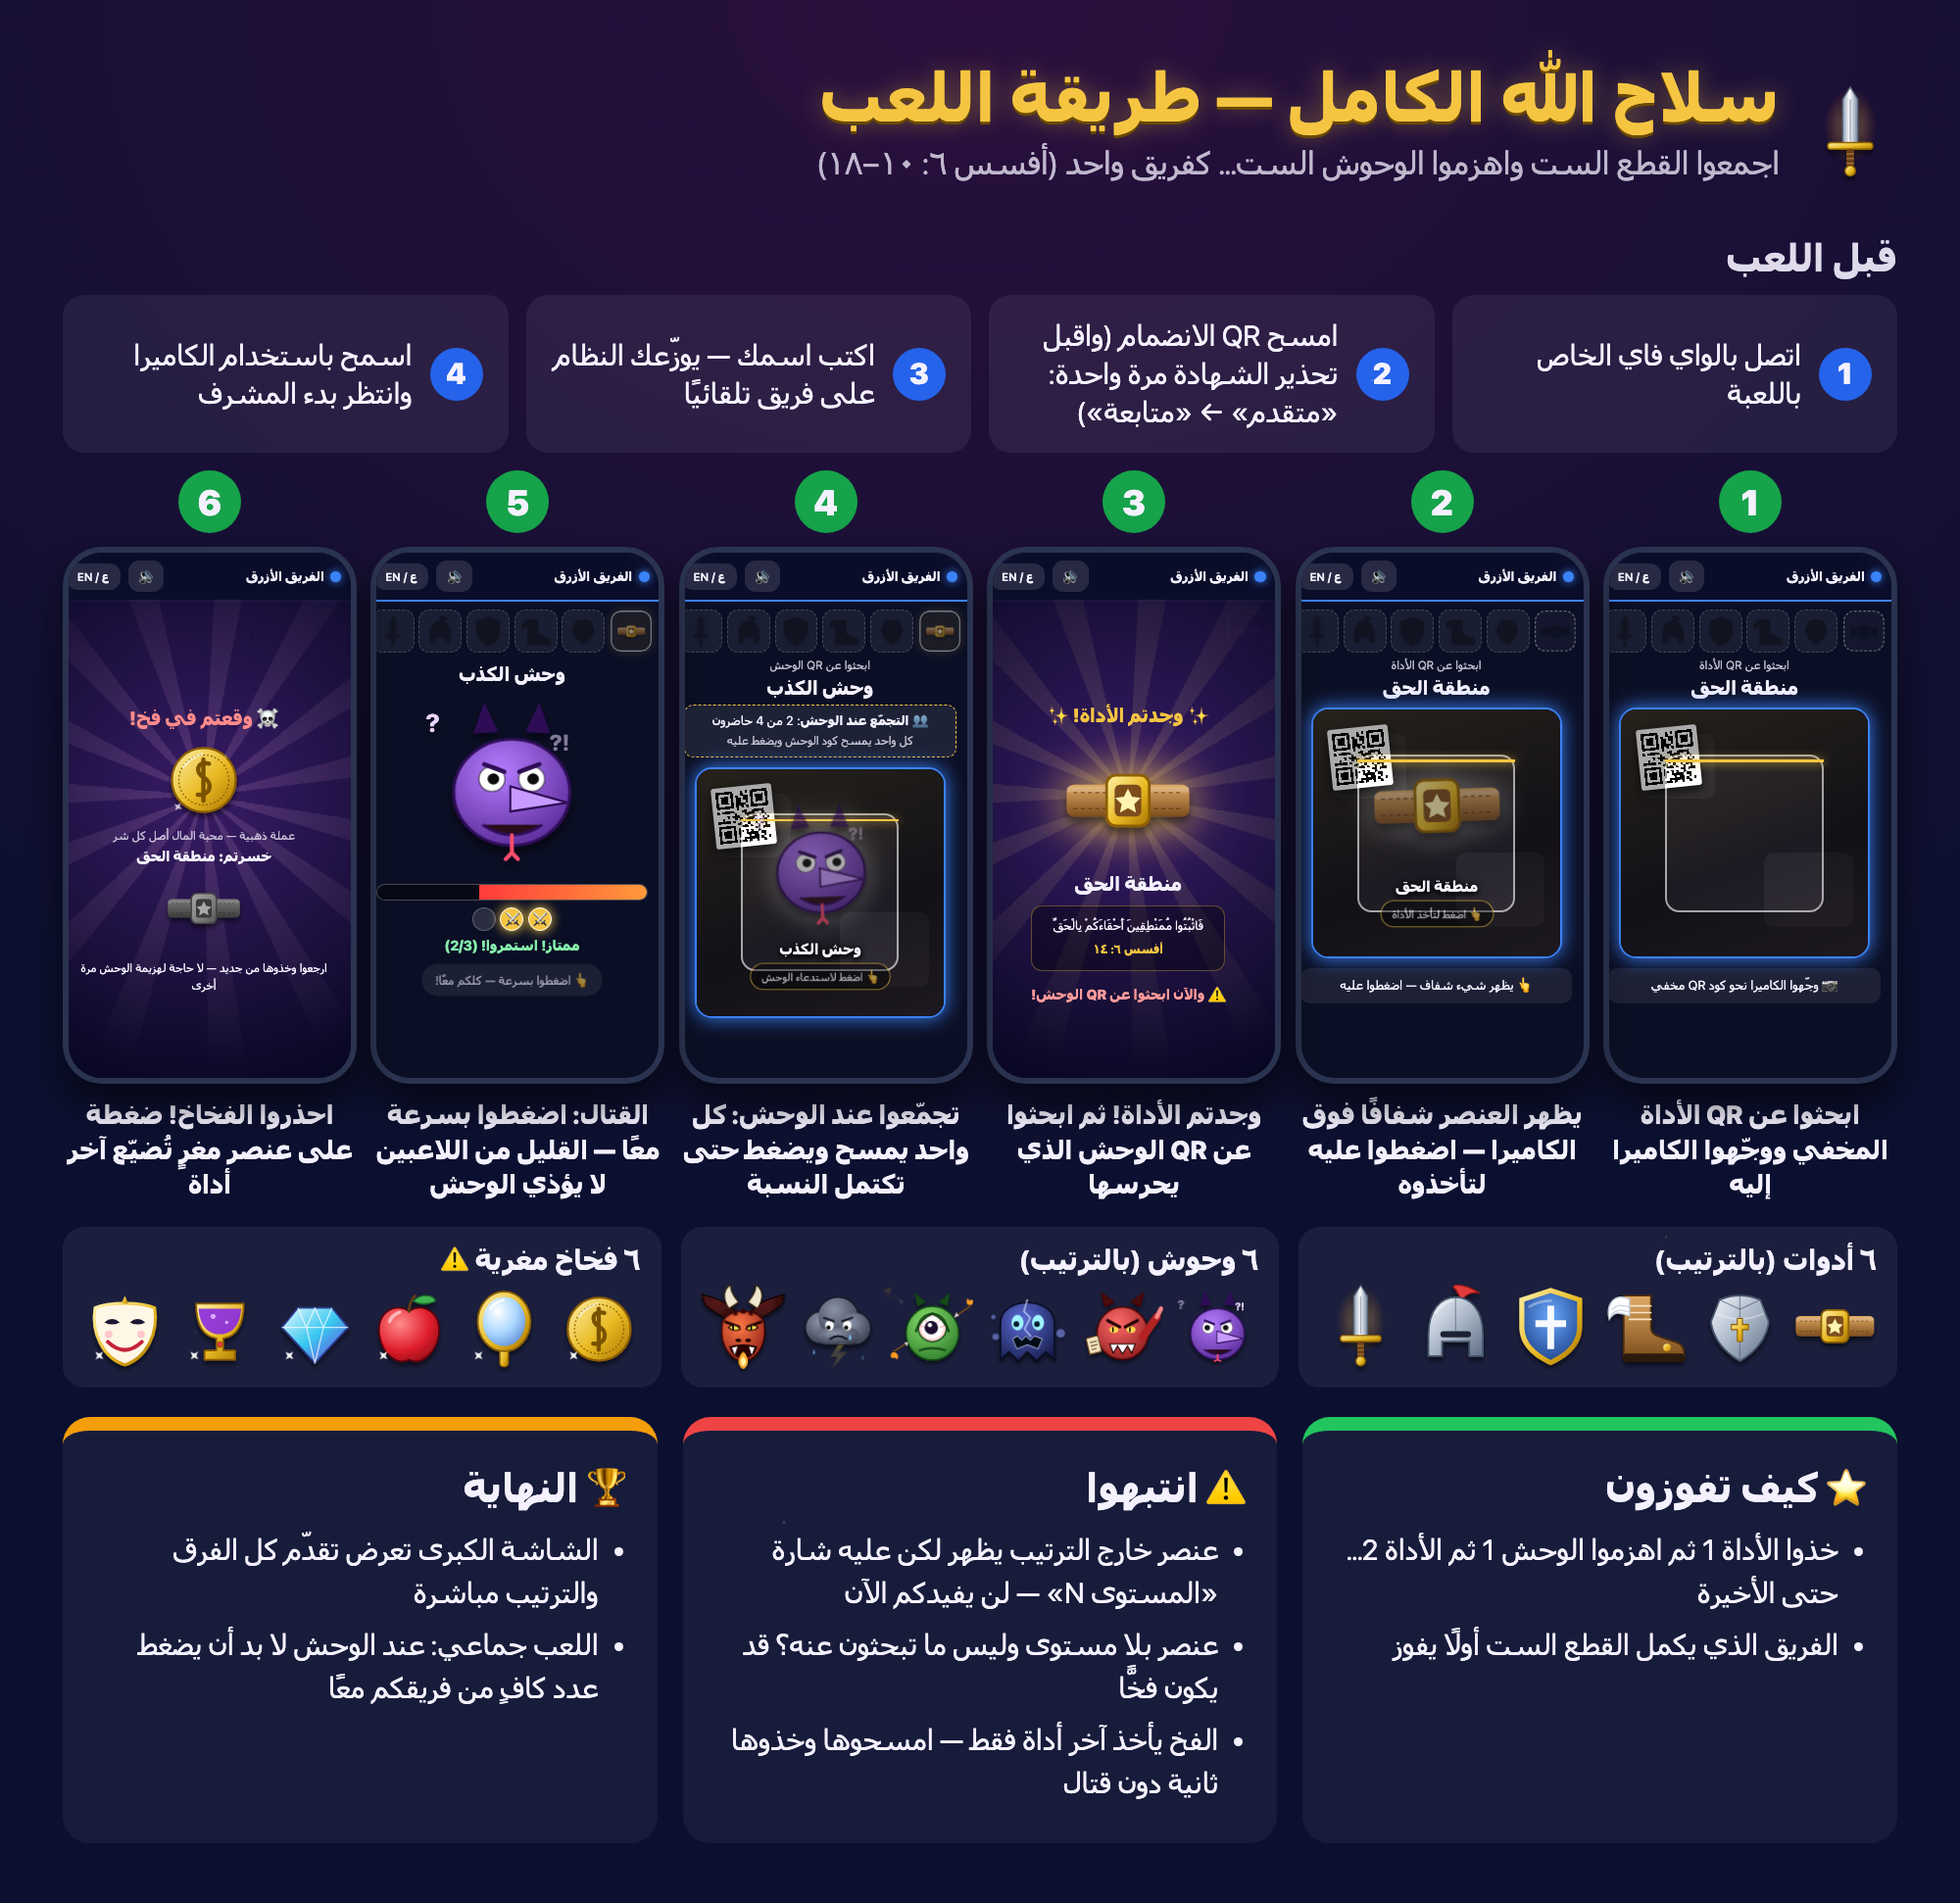
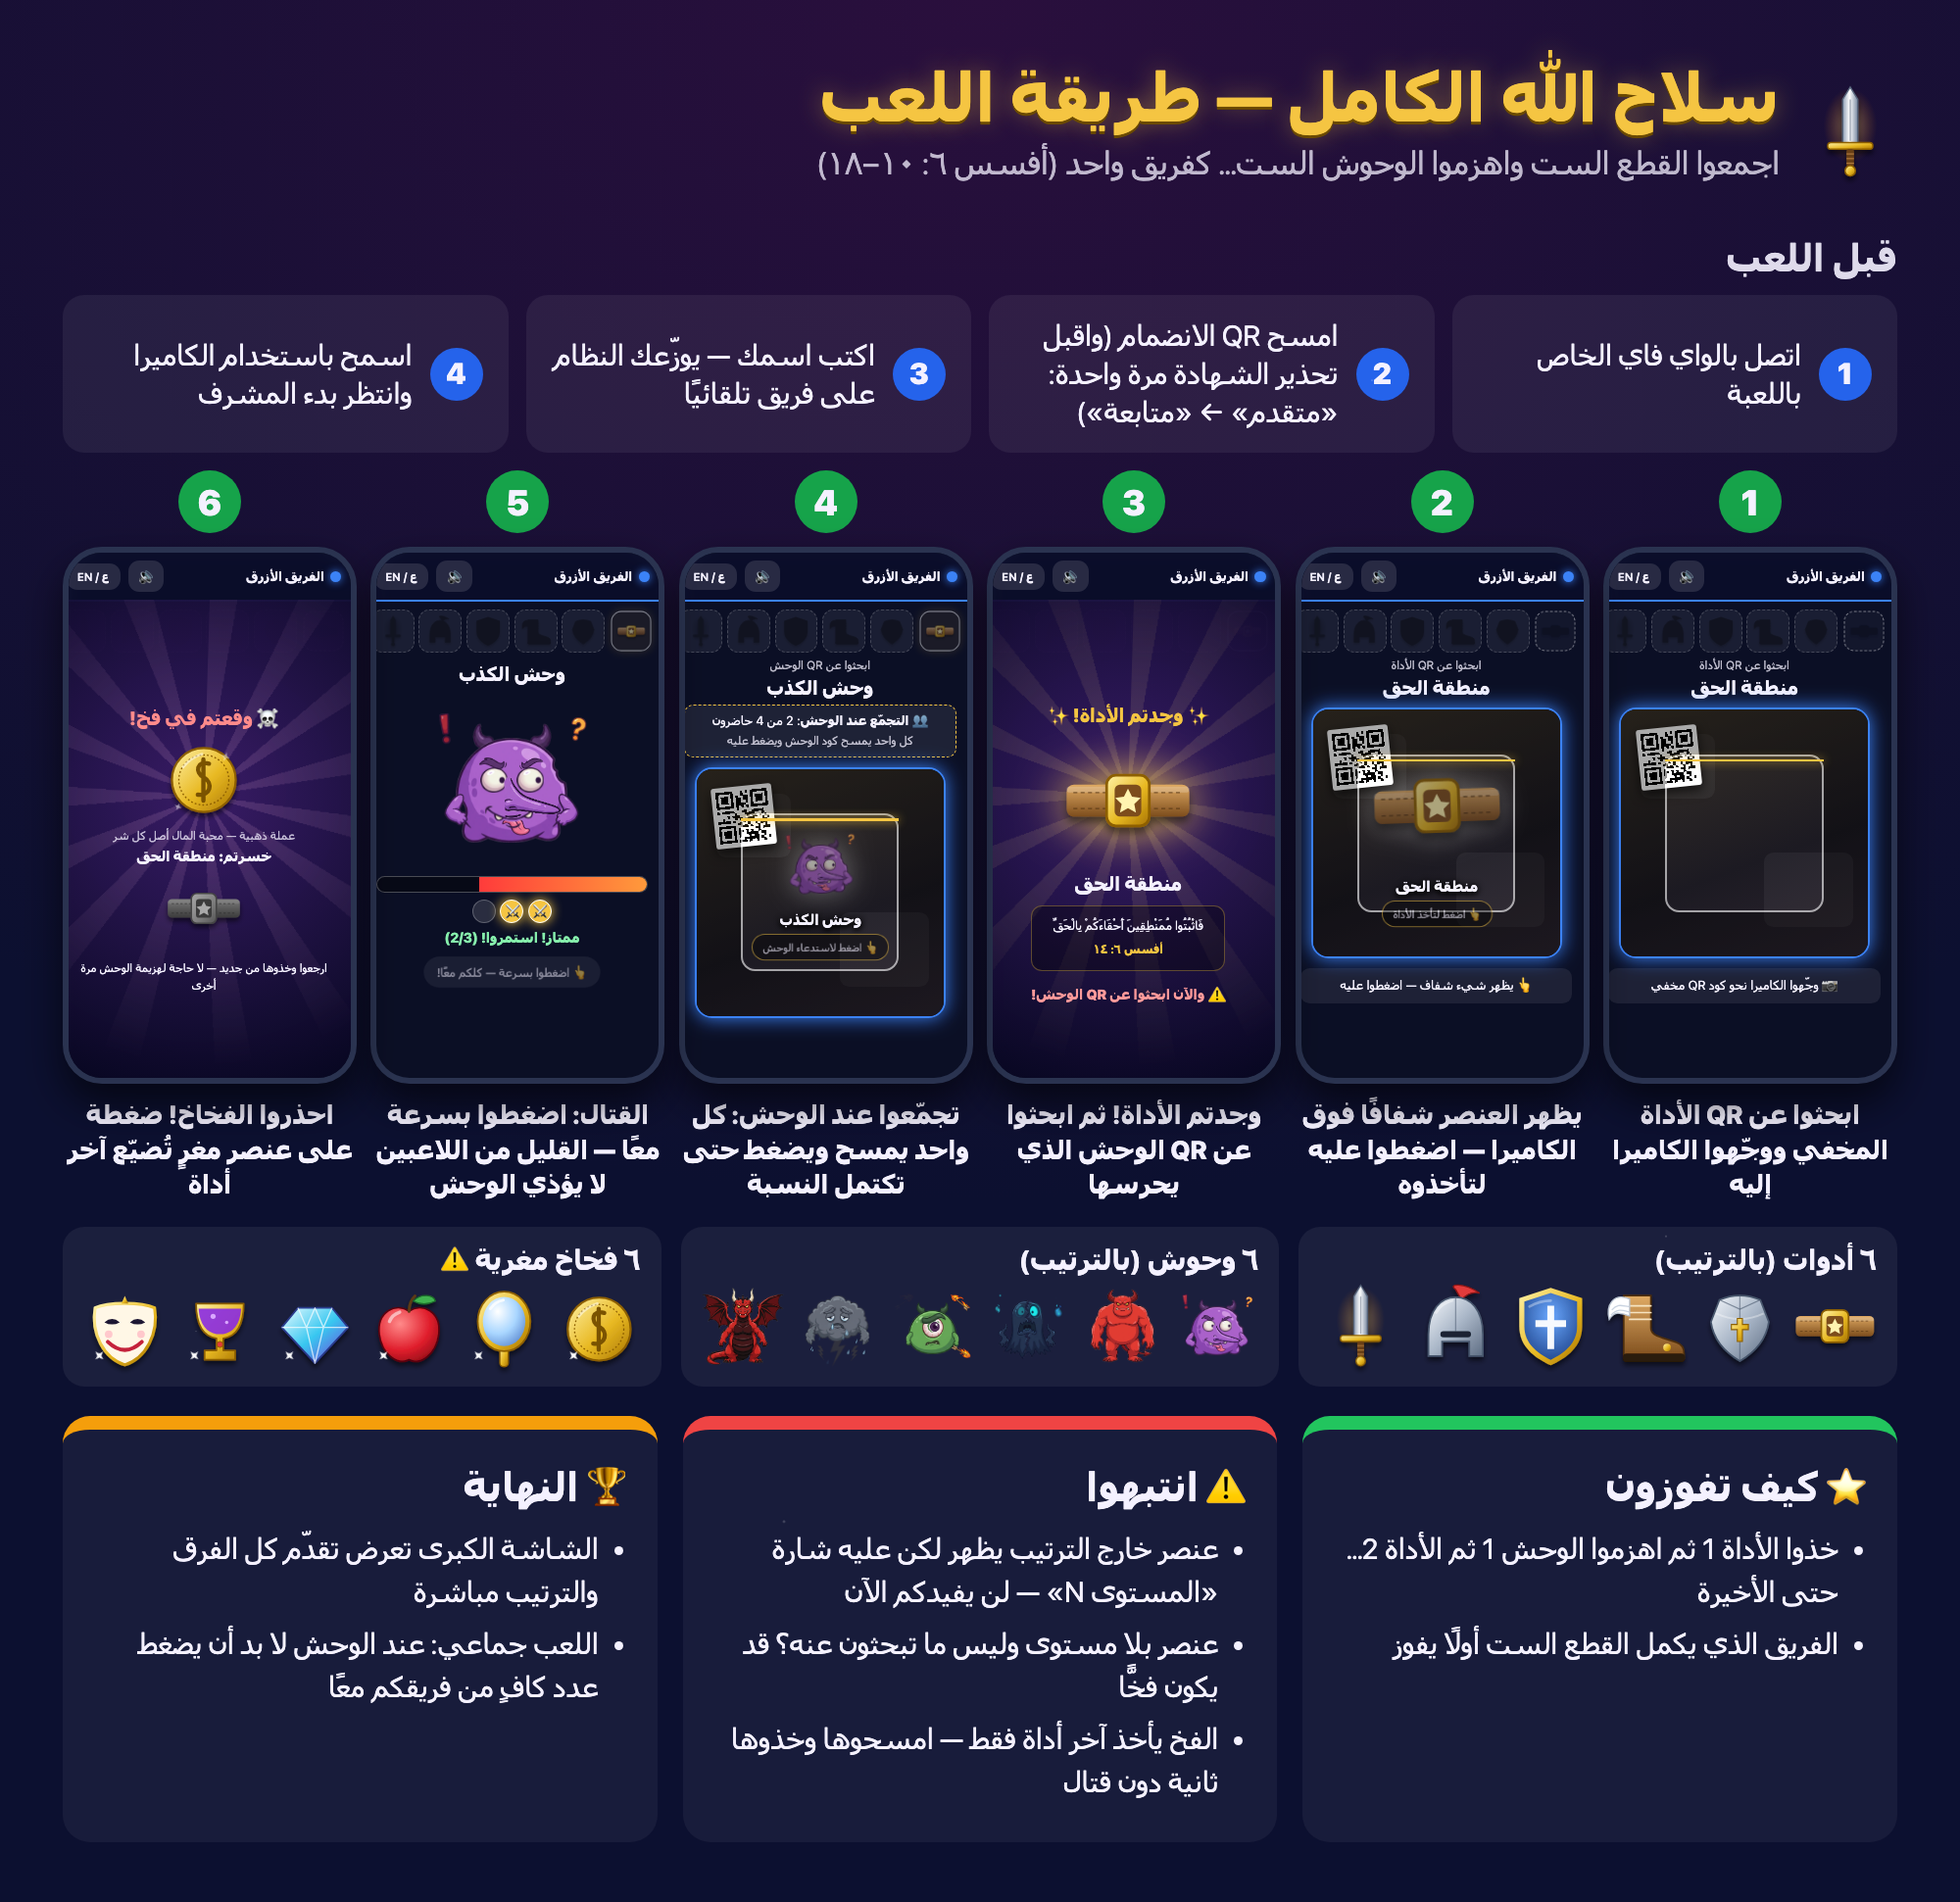
Guide: use the animated monster pictures so the how-to-play phones match the current game

diff --git a/guide/guide.html b/guide/guide.html
@@ -46,6 +46,13 @@
 <body>
 <div class="g" id="root"></div>
 <script src="qr.js"></script>
+<script src="../public/monsters/rig.js"></script>
+<script>
+// the real game uses the animated monster pictures (public/monsters); point them at ../public so this page works from file://
+(() => { const fix = (u) => (typeof u === 'string' ? u.replace(/^\/monsters\//, '../public/monsters/') : u);
+  Object.values(window.MONSTER_RIG || {}).forEach((r) => { const R = Array.isArray(r) ? { layers: r } : r; R.layers.forEach((l) => { l.src = fix(l.src); }); if (R.warp) R.warp = fix(R.warp); });
+  window.MWARP = { ok: false }; })(); // no WebGL needed: monsters with a warp show their still picture
+</script>
 <script src="../public/common.js"></script>
 <script>
 const Q = new URLSearchParams(location.search), DOC = Q.get('doc') || 'player';
